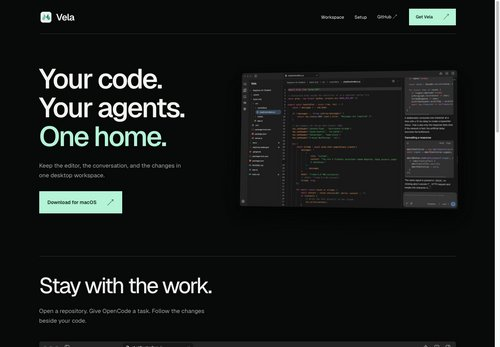
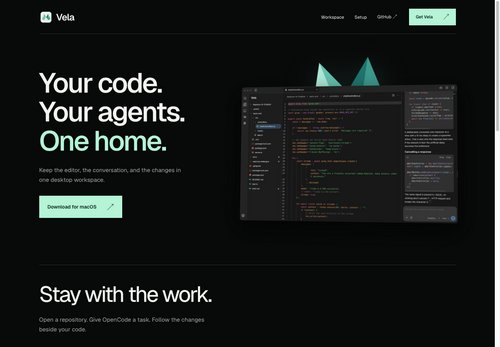
design: fix focused palette shortcuts and restore reference one artwork

diff --git a/design/vela-product/cloudroom/refinements.css b/design/vela-product/cloudroom/refinements.css
@@ -10,3 +10,12 @@
 @media(max-width:1080px){:is(.d1,.d2) h1,.iteration-page h1{font-size:clamp(54px,6.3vw,68px);letter-spacing:-3px}.d1 .home-hero{gap:24px;min-height:560px}}
 @media(max-width:800px){:is(.d1,.d2) h1,.iteration-page h1{font-size:72px}.d1 .home-hero{grid-template-columns:minmax(0,1fr);gap:48px;padding:52px 0 40px;min-height:0}.d1 .home-hero .hero-copy{max-width:560px}.d1 .home-art{max-width:680px;width:100%;margin:auto}.d1 .home-screen{width:100%;bottom:auto;transform:none}.d2 .wide-hero{padding-top:52px}}
 @media(max-width:640px){:is(.d1,.d2) h1,.iteration-page h1{font-size:clamp(50px,12vw,72px);letter-spacing:-2.7px}.d1 .home-hero{gap:40px;padding-top:32px}.d1 .home-screen{width:100%}.d2 .wide-hero{padding-top:32px}}
+
+/* The selected #1 reference keeps its restored folded mark and orbit artwork. */
+.d1 .home-art{height:500px;display:flex;align-items:center;justify-content:center;isolation:isolate}
+.d1 .home-art>.vela-mark{width:220px;top:0;left:calc(50% - 110px)}
+.d1 .home-screen{position:absolute;bottom:25px;width:100%}
+@media(max-width:1080px){.d1 .home-art{height:390px}.d1 .home-art>.vela-mark{width:180px;left:calc(50% - 90px)}.d1 .home-screen{bottom:20px}}
+@media(max-width:800px){.d1 .home-art{height:440px;max-width:600px}.d1 .home-art>.vela-mark{width:200px;left:calc(50% - 100px)}.d1 .home-screen{width:94%;bottom:15px}}
+@media(max-width:640px){.d1 .home-art{height:350px;max-width:450px}.d1 .home-art>.vela-mark{width:155px;left:calc(50% - 77.5px)}.d1 .home-screen{bottom:20px}}
+@media(max-width:420px){.d1 .home-art{height:300px}.d1 .home-art>.vela-mark{width:135px;left:calc(50% - 67.5px)}}

diff --git a/design/vela-product/cloudroom/iterations/app.js b/design/vela-product/cloudroom/iterations/app.js
@@ -94,7 +94,7 @@
   document.getElementById('hide-controls').addEventListener('click', () => setControls(true));
   document.getElementById('restore-controls').addEventListener('click', () => setControls(false));
   document.addEventListener('keydown', event => {
-    if (dialog.open || event.altKey || event.ctrlKey || event.metaKey || event.shiftKey || /^(INPUT|SELECT|TEXTAREA|BUTTON|SUMMARY|A)$/.test(event.target.tagName) || event.target.isContentEditable) return;
+    if (dialog.open || event.altKey || event.ctrlKey || event.metaKey || event.shiftKey || event.isComposing || /^(INPUT|TEXTAREA)$/.test(event.target.tagName) || event.target.isContentEditable) return;
     if (event.key === 'ArrowUp' || event.key === 'ArrowDown') {
       event.preventDefault();
       const index = palettes.findIndex(p => p.id === colorSelector.value);
@@ -102,9 +102,10 @@
       colorSelector.dispatchEvent(new Event('change'));
       return;
     }
+    if (/^(SELECT|BUTTON|SUMMARY|A)$/.test(event.target.tagName)) return;
     if (event.key !== 'ArrowLeft' && event.key !== 'ArrowRight') return;
     event.preventDefault(); advance(event.key === 'ArrowRight' ? 1 : -1);
-  });
+  }, { capture: true });
   window.addEventListener('popstate', () => {
     const params = new URLSearchParams(location.search);
     const id = Number(params.get('design'));

diff --git a/design/vela-product/cloudroom/directions-a.js b/design/vela-product/cloudroom/directions-a.js
@@ -4,7 +4,7 @@
   window.velaDirections.push(
     {
       id: 1, name: 'Home for the work',
-      body: () => `<section class="home-hero">${copy('Your code.<br> Your agents.<br> <em>One home.</em>', 'Keep the editor, the conversation, and the changes in one desktop workspace.')}<div class="home-art"><div class="home-screen">${shot()}</div></div></section><section class="home-product"><h2>Stay with the work.</h2><p>Open a repository. Give OpenCode a task. Follow the changes beside your code.</p>${shot()}</section>${featureRow()}${faq()}`
+      body: () => `<section class="home-hero">${copy('Your code.<br> Your agents.<br> <em>One home.</em>', 'Keep the editor, the conversation, and the changes in one desktop workspace.')}<div class="home-art"><div class="home-orbit orbit-one"></div><div class="home-orbit orbit-two"></div>${mark()}<div class="home-screen">${shot()}</div></div></section><section class="home-product"><h2>Stay with the work.</h2><p>Open a repository. Give OpenCode a task. Follow the changes beside your code.</p>${shot()}</section>${featureRow()}${faq()}`
     },
     {
       id: 2, name: 'Everything in view',

diff --git a/design/vela-product/cloudroom/iterations/QA.md b/design/vela-product/cloudroom/iterations/QA.md
@@ -5,7 +5,8 @@ Checked October 23, 2026 under Node 22.23.2 with isolated Electron profiles.
 - 30 new iterations: 15 from #1 and 15 from #2, plus both retained references.
 - All 32 pages rendered at 1440, 1024, 768, 390, and 320 CSS pixels: 160
   layouts checked for horizontal overflow, offscreen headlines/actions/images,
-  screenshot frames, added artwork, and image decoding.
+  screenshot frames, image decoding, and the absence of added artwork in the
+  30 new iterations. Reference #1's restored mark and two orbits are intentional.
 - Headline size, weight, and line-height checked against Cloudroom’s measured
   responsive scale at each width. The desktop cap is 80px, replacing the
   previous 110px title in #1.
@@ -16,13 +17,16 @@ Checked October 23, 2026 under Node 22.23.2 with isolated Electron profiles.
 - Checked independent per-design palette choices, full reload, URL restoration,
   browser Back, arrow navigation, native palette-key ownership, wraparound,
   directory selection, and collapsing/restoring review controls.
-- Up/Down palette shortcuts checked for both directions, wraparound, unchanged
-  design selection, URL updates, saved per-design choices, and native dropdown
-  key ownership.
+- Reproduced the reported shortcut failure with a real Down keypress after
+  focusing a navigation button. The previous handler ignored button/select
+  targets. Real Up/Down keypresses now check buttons, the design selector, and
+  the palette selector, including unchanged design selection. Text editing,
+  open dialogs, and Left/Right native control ownership remain protected.
 - Reviewed rendered desktop/mobile contact sheets and palette sheets for both
   families. All directory thumbnails come from actual renders.
-- Original #1/#2 URLs also checked for 80px desktop titles, no decorative
-  logo/orbits behind the hero screenshot, and no colored screenshot frames.
+- Original #1/#2 URLs checked for 80px desktop titles and no colored screenshot
+  frames. #1 restores its folded logo and orbit artwork at the user's request;
+  #2 and the new iterations retain their plain screenshots.
 
 Normal history/reload checks run before the deliberately dense palette matrix.
 This keeps normal navigation verification separate from Chromium’s history

diff --git a/design/vela-product/cloudroom/iterations/README.md b/design/vela-product/cloudroom/iterations/README.md
@@ -11,8 +11,10 @@ collection remains available from the directory.
 - Use Left/Right outside interactive controls to browse. The iteration
   selector groups the references and both families. **All designs** opens
   a thumbnail directory; Escape closes it.
-- Use Up/Down outside interactive controls to cycle palettes, wrapping at
-  either end. This uses the same saved per-design choice as the dropdown.
+- Use Up/Down to cycle palettes, including after focusing a navigation button
+  or a closed dropdown. The keys wrap at either end and use the same saved
+  per-design choice as the palette picker. Text editing and open dialogs keep
+  their normal keys.
 - The **Palette** dropdown offers 24 standard, vibrant, pastel, and saturated
   choices. A selection is remembered separately for each design in browser
   storage. The URL also records the selected design and palette, so it can
@@ -27,7 +29,9 @@ and -4px tracking, with the source’s 1080px, 800px, and 640px responsive
 breakpoints. Individual iterations do not override the primary type scale.
 
 Screenshots are the unmodified real Vela image. There are no colored frames,
-padding surfaces, outlines, or decorative shapes behind them. The only
+padding surfaces, or outlines. Reference #1 intentionally restores its folded
+mark and orbit artwork behind the hero screenshot; the 30 new iterations keep
+their screenshot-only treatment. The only other
 presentation effects are neutral elevation, spacing, and occasional slight
 perspective. Palettes change page colors and actions; they do not recolor
 the screenshot or the existing app icon. The previous prohibition on

diff --git a/design/vela-product/cloudroom/README.md b/design/vela-product/cloudroom/README.md
@@ -1,7 +1,8 @@
 # Vela release directions
 
-The selected #1 and #2 now have corrected Cloudroom-scale headlines and plain
-app screenshots. [Thirty further iterations and 24 palettes](iterations/index.html)
+The selected #1 and #2 have corrected Cloudroom-scale headlines and unframed
+app screenshots. #1's folded mark and orbit artwork have been restored behind
+its hero image. [Thirty further iterations and 24 palettes](iterations/index.html)
 keep both as references, with fifteen new compositions from each direction.
 
 Open [the collection](index.html) directly from disk. Twenty standalone
